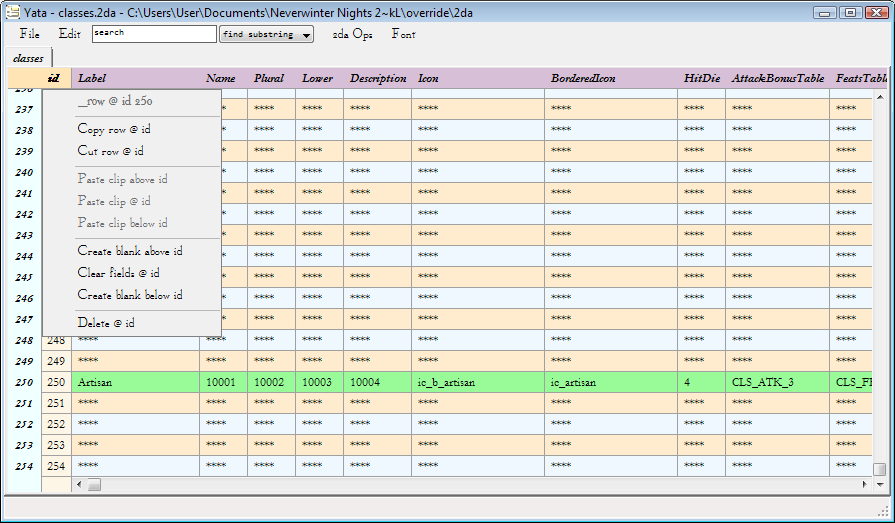
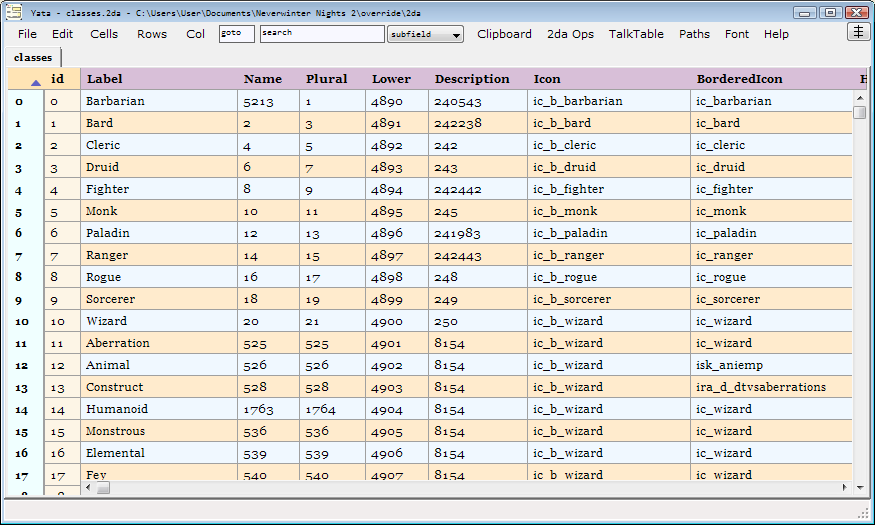
update README.md and yata.png

diff --git a/README.md b/README.md
@@ -1,8 +1,6 @@
 # Yata
-NwN2 2da editor
+Neverwinter Nights 2 2da editor
 
-branch master w/ custom grid
+c# .net 3.5
+
 ![Yata](https://github.com/kevL/yata/blob/master/images/screenshots/yata.png "Yata")
-
-branch dgv_obsolete w/ DataGridView
-![Yata](https://github.com/kevL/yata/blob/dgv_obsolete/images/screenshots/yata.png "Yata")
